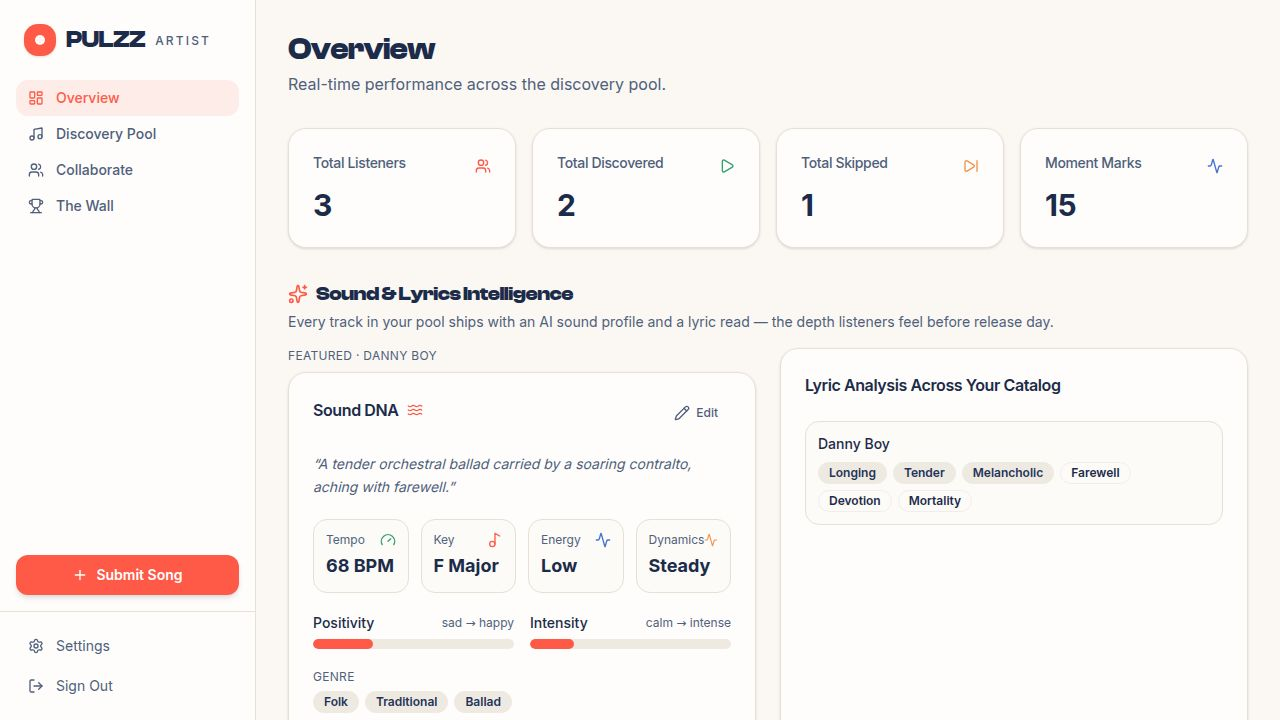
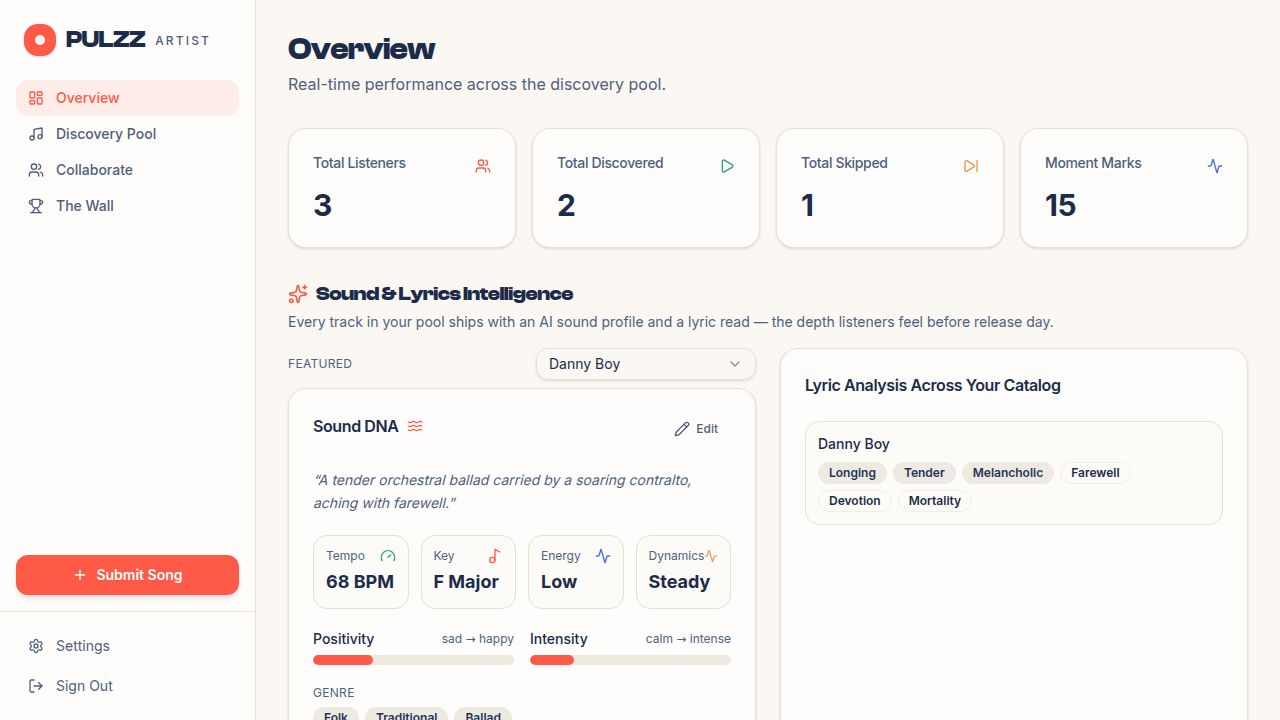
Let artists pick which song to feature on their dashboard
Task #65: the Overview page's "Sound & Lyrics Intelligence" featured Sound DNA
slot was hardcoded to recentSongs[0]. Artists can now choose which track to
spotlight, and the choice persists per artist.

Changes:
- DB: added nullable `featured_song_id` (integer, no FK to avoid a circular
  schema import between artists/songs; stale ids fall back at read time) to the
  artists table. Pushed via drizzle-kit push.
- OpenAPI: added `featuredSongId` to Artist, UpdateArtistInput, and
  ArtistDashboard schemas; regenerated Orval hooks + Zod schemas.
- API (artists route): updateArtist now accepts/persists featuredSongId; the
  dashboard endpoint fetches and returns the artist's featuredSongId; list/get/
  create artist responses include it.
- UI (dashboard.tsx): added a Select picker in the Featured slot listing the
  artist's recent songs; selecting one calls updateArtist and invalidates the
  dashboard query. featuredSong resolves to the saved pick when present in the
  list, otherwise falls back to the most recent song so the slot is never empty.

Notes/deviations:
- Picker lists the dashboard's recentSongs (limit 5), consistent with the rest
  of the Overview's catalog sections, rather than a separate full-catalog fetch.
- Dashboard remains hardcoded to artistId=1 (MVP), unchanged by this task.

Verified: typecheck (artist + api) clean; PUT/dashboard round-trip persists and
falls back to null correctly; UI screenshot shows the picker rendering.

Rebase resolution (onto main):
[…]

diff --git a/artifacts/pulzz-artist/src/pages/dashboard.tsx b/artifacts/pulzz-artist/src/pages/dashboard.tsx
@@ -1,11 +1,72 @@
 import { AppLayout } from "@/components/layout/app-layout";
-import { useGetArtistDashboard } from "@workspace/api-client-react";
+import {
+  useGetArtistDashboard,
+  getGetArtistDashboardQueryKey,
+  useUpdateArtist,
+} from "@workspace/api-client-react";
 import { Card, CardContent, CardHeader, CardTitle } from "@/components/ui/card";
-import { Play, SkipForward, Users, Activity, Loader2 } from "lucide-react";
+import { Badge } from "@/components/ui/badge";
+import {
+  Select,
+  SelectContent,
+  SelectItem,
+  SelectTrigger,
+  SelectValue,
+} from "@/components/ui/select";
+import {
+  Play,
+  SkipForward,
+  Users,
+  Activity,
+  Loader2,
+  Sparkles,
+  ArrowRight,
+} from "lucide-react";
 import { Link } from "wouter";
+import { useQueryClient } from "@tanstack/react-query";
+import { SoundDna } from "@/components/sound-dna";
+import { toast } from "@/hooks/use-toast";
+
+const ARTIST_ID = 1;
 
 export default function Dashboard() {
-  const { data: dashboard, isLoading } = useGetArtistDashboard(1, { query: { enabled: true, queryKey: ["dashboard", 1] } });
+  const queryClient = useQueryClient();
+  const dashboardQueryKey = getGetArtistDashboardQueryKey(ARTIST_ID);
+  const { data: dashboard, isLoading } = useGetArtistDashboard(ARTIST_ID, {
+    query: { enabled: true, queryKey: dashboardQueryKey },
+  });
+  const updateArtist = useUpdateArtist();
+
+  const recentSongs = dashboard?.recentSongs ?? [];
+  // Honor the artist's pick when it still maps to a song in view; otherwise
+  // fall back to the most recent track so the slot is never empty.
+  const featuredSong =
+    recentSongs.find((s) => s.id === dashboard?.featuredSongId) ??
+    recentSongs[0];
+
+  function handleFeatureChange(value: string) {
+    const songId = Number(value);
+    if (!Number.isFinite(songId) || songId === dashboard?.featuredSongId) return;
+    updateArtist.mutate(
+      { id: ARTIST_ID, data: { featuredSongId: songId } },
+      {
+        onSuccess: () => {
+          void queryClient.invalidateQueries({ queryKey: dashboardQueryKey });
+          toast({
+            title: "Featured track updated",
+            description: "Your Overview now spotlights this song's Sound DNA.",
+          });
+        },
+        onError: () => {
+          toast({
+            title: "Couldn't update",
+            description: "Something went wrong changing the featured track.",
+            variant: "destructive",
+          });
+        },
+      }
+    );
+  }
 
   return (
     <AppLayout>
@@ -59,6 +120,94 @@ export default function Dashboard() {
                 </CardContent>
               </Card>
             </div>
+
+            {dashboard.recentSongs && dashboard.recentSongs.length > 0 && (
+              <div className="space-y-4">
+                <div className="flex items-center justify-between">
+                  <div>
+                    <h2 className="text-xl font-bold tracking-tight flex items-center gap-2">
+                      <Sparkles className="w-5 h-5 text-primary" />
+                      Sound &amp; Lyrics Intelligence
+                    </h2>
+                    <p className="text-sm text-muted-foreground mt-1">
+                      Every track in your pool ships with an AI sound profile and
+                      a lyric read — the depth listeners feel before release day.
+                    </p>
+                  </div>
+                </div>
+
+                <div className="grid grid-cols-1 lg:grid-cols-2 gap-6">
+                  <div className="space-y-2">
+                    <div className="flex items-center justify-between gap-3">
+                      <div className="text-xs uppercase tracking-wide text-muted-foreground">
+                        Featured
+                      </div>
+                      <Select
+                        value={featuredSong ? String(featuredSong.id) : undefined}
+                        onValueChange={handleFeatureChange}
+                        disabled={updateArtist.isPending}
+                      >
+                        <SelectTrigger className="h-8 w-[220px] text-sm">
+                          <SelectValue placeholder="Choose a track to feature" />
+                        </SelectTrigger>
+                        <SelectContent>
+                          {recentSongs.map((song) => (
+                            <SelectItem key={song.id} value={String(song.id)}>
+                              {song.title}
+                            </SelectItem>
+                          ))}
+                        </SelectContent>
+                      </Select>
+                    </div>
+                    {featuredSong && <SoundDna songId={featuredSong.id} />}
+                  </div>
+
+                  <Card className="bg-card border-border">
+                    <CardHeader>
+                      <CardTitle className="text-base">
+                        Lyric Analysis Across Your Catalog
+                      </CardTitle>
+                    </CardHeader>
+                    <CardContent className="space-y-4">
+                      {dashboard.recentSongs.map((song) => {
+                        const moods = song.analysis?.mood ?? [];
+                        const themes = song.analysis?.themes ?? [];
+                        return (
+                          <Link key={song.id} href={`/songs/${song.id}`}>
+                            <div className="group rounded-lg border border-border bg-background/40 p-3 hover:bg-secondary/50 transition-colors cursor-pointer">
+                              <div className="flex items-center justify-between">
+                                <span className="font-medium text-sm">
+                                  {song.title}
+                                </span>
+                                <ArrowRight className="w-3.5 h-3.5 text-muted-foreground opacity-0 group-hover:opacity-100 transition-opacity" />
+                              </div>
+                              {moods.length > 0 || themes.length > 0 ? (
+                                <div className="flex flex-wrap gap-1.5 mt-2">
+                                  {moods.map((m) => (
+                                    <Badge key={`m-${m}`} variant="secondary">
+                                      {m}
+                                    </Badge>
+                                  ))}
+                                  {themes.map((t) => (
+                                    <Badge key={`t-${t}`} variant="outline">
+                                      {t}
+                                    </Badge>
+                                  ))}
+                                </div>
+                              ) : (
+                                <p className="text-xs text-muted-foreground mt-1">
+                                  No lyric analysis yet.
+                                </p>
+                              )}
+                            </div>
+                          </Link>
+                        );
+                      })}
+                    </CardContent>
+                  </Card>
+                </div>
+              </div>
+            )}
 
             <div className="space-y-4">
               <h2 className="text-xl font-bold tracking-tight">Recent Activity</h2>

diff --git a/artifacts/api-server/src/routes/artists.ts b/artifacts/api-server/src/routes/artists.ts
@@ -84,6 +84,7 @@ router.get("/artists", async (_req, res): Promise<void> => {
         ...a,
         createdAt: a.createdAt.toISOString(),
         soundProfile: profiles.get(a.id) ?? null,
+        featuredSongId: a.featuredSongId,
       }))
     )
   );
@@ -124,6 +125,7 @@ router.post("/artists", async (req, res): Promise<void> => {
     GetArtistResponse.parse({
       ...artist,
       createdAt: artist.createdAt.toISOString(),
+      featuredSongId: artist.featuredSongId,
     })
   );
 });
@@ -149,6 +151,7 @@ router.get("/artists/:id", async (req, res): Promise<void> => {
     GetArtistResponse.parse({
       ...artist,
       createdAt: artist.createdAt.toISOString(),
+      featuredSongId: artist.featuredSongId,
     })
   );
 });
@@ -184,6 +187,9 @@ router.put("/artists/:id", async (req, res): Promise<void> => {
         : {}),
       ...(body.data.roles !== undefined ? { roles: body.data.roles } : {}),
       ...(body.data.links !== undefined ? { links: body.data.links } : {}),
+      ...(body.data.featuredSongId !== undefined
+        ? { featuredSongId: body.data.featuredSongId }
+        : {}),
     })
     .where(eq(artistsTable.id, params.data.id))
     .returning();
@@ -197,6 +203,7 @@ router.put("/artists/:id", async (req, res): Promise<void> => {
     UpdateArtistResponse.parse({
       ...updated[0],
       createdAt: updated[0].createdAt.toISOString(),
+      featuredSongId: updated[0].featuredSongId,
     })
   );
 });
@@ -252,6 +259,11 @@ router.get("/artists/:id/dashboard", async (req, res): Promise<void> => {
     res.status(400).json({ error: params.error.message });
     return;
   }
+
+  const [artist] = await db
+    .select({ featuredSongId: artistsTable.featuredSongId })
+    .from(artistsTable)
+    .where(eq(artistsTable.id, params.data.id));
 
   const artistSongs = await db
     .select({ id: songsTable.id, status: songsTable.status })
@@ -327,6 +339,7 @@ router.get("/artists/:id/dashboard", async (req, res): Promise<void> => {
       totalDiscovered,
       totalSkipped,
       totalMomentMarks,
+      featuredSongId: artist?.featuredSongId ?? null,
       recentSongs: recentSongs.map((s) => ({
         ...s,
         daysUntilRelease: Math.max(

diff --git a/lib/db/src/schema/artists.ts b/lib/db/src/schema/artists.ts
@@ -1,4 +1,11 @@
-import { jsonb, pgTable, serial, text, timestamp } from "drizzle-orm/pg-core";
+import {
+  integer,
+  jsonb,
+  pgTable,
+  serial,
+  text,
+  timestamp,
+} from "drizzle-orm/pg-core";
 import { createInsertSchema } from "drizzle-zod";
 import { z } from "zod/v4";
 
@@ -36,6 +43,10 @@ export const artistsTable = pgTable("artists", {
   distributor: text("distributor"),
   roles: text("roles").array().default([]),
   links: jsonb("links").$type<ArtistLinks>(),
+  // Song the artist has chosen to spotlight in the dashboard's featured Sound
+  // DNA slot. Plain integer (no FK) to avoid a circular schema import; stale
+  // ids fall back to the most recent song at the read site.
+  featuredSongId: integer("featured_song_id"),
   createdAt: timestamp("created_at", { withTimezone: true }).notNull().defaultNow(),
 });
 